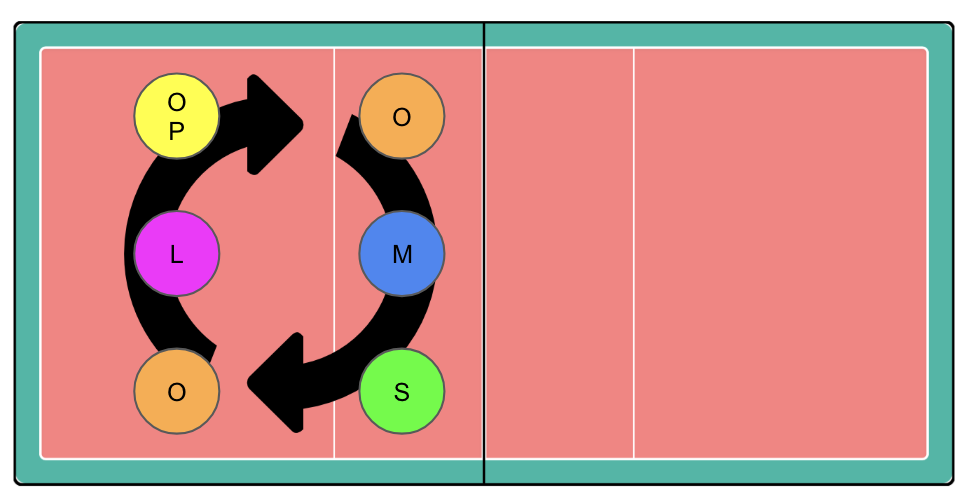
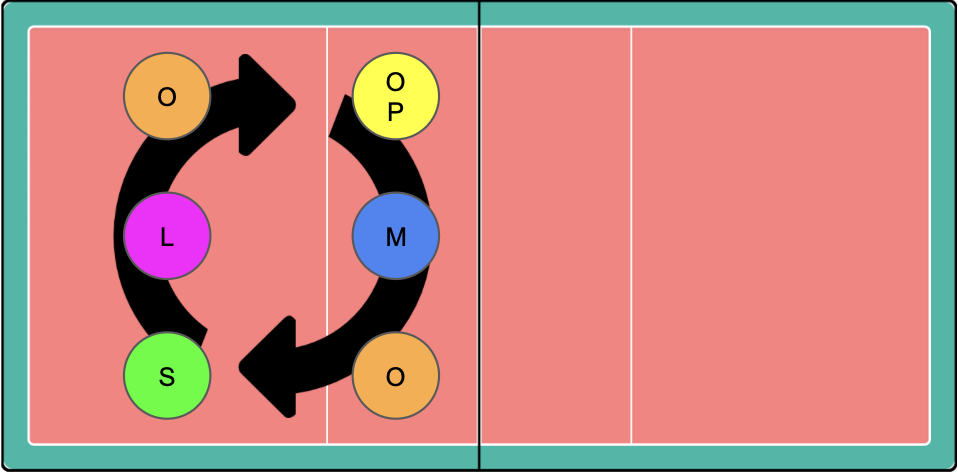
Updated text for correctness, added rotations and positions/roles slides, added interactive popups.

diff --git a/static/js/app.js b/static/js/app.js
@@ -2,6 +2,55 @@
 
 $(document).ready(function () {
 
+  // Popup term highlights and diagram info button
+  const popups = window.LESSON_POPUPS || [];
+  if (popups.length) {
+    const termPopups = popups.filter(p => p.type !== 'diagram');
+    const diagramPopups = popups.filter(p => p.type === 'diagram');
+
+    if (termPopups.length) {
+      $('.lesson-text p, .lesson-text td').each(function () {
+        let html = $(this).html();
+        termPopups.forEach(p => {
+          const escaped = p.term.replace(/[.*+?^${}()|[\]\\]/g, '\\$&');
+          const re = new RegExp('\\b(' + escaped + ')\\b', 'i');
+          html = html.replace(re, match => {
+            const def = p.definition.replace(/"/g, '&quot;');
+            return '<span class="popup-term" tabindex="0" role="button"'
+              + ' data-bs-toggle="popover" data-bs-trigger="click focus"'
+              + ' data-bs-placement="top" data-bs-content="' + def + '"'
+              + '>' + match + '</span>';
+          });
+        });
+        $(this).html(html);
+      });
+      $('.popup-term').each(function () {
+        new bootstrap.Popover(this, { container: 'body' });
+      });
+    }
+
+    if (diagramPopups.length) {
+      const $imgCol = $('.col-md-6.mb-3');
+      if ($imgCol.length) {
+        $imgCol.css('position', 'relative');
+        const content = diagramPopups.map(p => p.definition).join('<hr style="margin:6px 0">');
+        const $btn = $('<button class="popup-info-btn" tabindex="0" aria-label="Diagram info">ⓘ</button>');
+        $imgCol.append($btn);
+        new bootstrap.Popover($btn[0], { container: 'body', trigger: 'click', placement: 'left', html: true, content });
+      }
+    }
+
+    $(document).on('click', function (e) {
+      if (!$(e.target).closest('.popup-term, .popup-info-btn, .popover').length) {
+        $('.popup-term, .popup-info-btn').each(function () {
+          bootstrap.Popover.getInstance(this)?.hide();
+        });
+      }
+    });
+  }
+
+
+
   // Record interactive lesson choices via AJAX
   $('.choice-btn').on('click', function () {
     const $btn = $(this);

diff --git a/templates/learn.html b/templates/learn.html
@@ -16,6 +16,36 @@ endblock %} {% block content %}
 <h5 class="text-muted">{{ lesson.subtitle }}</h5>
 {% endif %}
 
+{% if lesson.table %}
+<div class="mt-4 lesson-text">
+    <p>{{ lesson.body }}</p>
+    {% if lesson.note %}
+    <p class="text-muted"><em>{{ lesson.note }}</em></p>
+    {% endif %}
+    <div class="table-responsive">
+        <table class="table table-sm table-bordered align-middle">
+            <thead class="table-light">
+                <tr>
+                    <th>Position</th>
+                    <th>On the Court</th>
+                    <th>Offense</th>
+                    <th>Defense</th>
+                </tr>
+            </thead>
+            <tbody>
+                {% for row in lesson.table %}
+                <tr>
+                    <td><strong>{{ row.name }} ({{ row.abbreviation }})</strong></td>
+                    <td>{{ row.position }}</td>
+                    <td>{{ row.offense }}</td>
+                    <td>{{ row.defense }}</td>
+                </tr>
+                {% endfor %}
+            </tbody>
+        </table>
+    </div>
+</div>
+{% else %}
 <div class="row mt-4">
     <div class="col-md-6 mb-3">
         {% if lesson.image %}
@@ -45,7 +75,7 @@ endblock %} {% block content %}
         {% endif %}
     </div>
 
-    <div class="col-md-6">
+    <div class="col-md-6 lesson-text">
         <p>{{ lesson.body }}</p>
         {% if lesson.note %}
         <p class="text-muted"><em>{{ lesson.note }}</em></p>
@@ -78,6 +108,7 @@ endblock %} {% block content %}
         {% endif %}
     </div>
 </div>
+{% endif %}
 
 <div class="d-flex justify-content-between mt-5">
     {% if n > 1 %}
@@ -107,8 +138,12 @@ endblock %} {% block content %}
     {% endif %}
 </div>
 
+{% endblock %}
+
+{% block scripts %}
 <script>
     window.LESSON_ID = {{ n }};
     window.LESSON_TYPE = "{{ lesson.interactive.type if lesson.interactive else '' }}";
+    window.LESSON_POPUPS = {{ lesson.popups | tojson if lesson.popups is defined and lesson.popups else '[]' }};
 </script>
 {% endblock %}

diff --git a/static/css/style.css b/static/css/style.css
@@ -23,3 +23,41 @@ body {
 .card.border-danger {
   border-width: 2px;
 }
+
+.popup-term {
+  border-bottom: 2px dotted #d4a800;
+  background: rgba(255, 213, 0, 0.18);
+  border-radius: 2px;
+  padding: 0 2px;
+  cursor: pointer;
+  transition: background 0.15s;
+}
+.popup-term:hover, .popup-term:focus {
+  background: rgba(255, 213, 0, 0.38);
+  outline: none;
+}
+.popup-info-btn {
+  position: absolute;
+  bottom: 8px;
+  right: 8px;
+  width: 30px;
+  height: 30px;
+  border-radius: 50%;
+  border: none;
+  background: rgba(255, 213, 0, 0.9);
+  color: #333;
+  font-size: 16px;
+  line-height: 1;
+  cursor: pointer;
+  z-index: 10;
+  display: flex;
+  align-items: center;
+  justify-content: center;
+  padding: 0;
+  box-shadow: 0 1px 4px rgba(0,0,0,0.25);
+  transition: background 0.15s;
+}
+.popup-info-btn:hover, .popup-info-btn:focus {
+  background: rgba(255, 213, 0, 1);
+  outline: none;
+}

diff --git a/app.py b/app.py
@@ -3,24 +3,27 @@
 Flask backend for HW10 Technical Prototype
 """
 
-from flask import Flask, render_template, request, redirect, url_for, jsonify
 import json
 import os
 from datetime import datetime
 
+from flask import Flask, jsonify, redirect, render_template, request, url_for
+
 app = Flask(__name__)
+
 
 #  Load lesson and quiz content from JSON
 def load_json(filename):
-    path = os.path.join(os.path.dirname(__file__), 'data', filename)
-    with open(path, 'r') as f:
+    path = os.path.join(os.path.dirname(__file__), "data", filename)
+    with open(path, "r") as f:
         return json.load(f)
 
-LESSONS = load_json('lessons.json')
-QUIZ = load_json('quiz.json')
+
+LESSONS = load_json("lessons.json")
+QUIZ = load_json("quiz.json")
 
 
-#  Single user memory state for req8 
+#  Single user memory state for req8
 def fresh_state():
     return {
         "started_at": None,
@@ -30,90 +33,102 @@ def fresh_state():
         "finished_at": None,
     }
 
+
 user_state = fresh_state()
 
 
 # Routes
 
-@app.route('/')
+
+@app.route("/")
 def home():
-    return render_template('home.html')
+    return render_template("home.html")
 
 
-@app.route('/start', methods=['POST'])
+@app.route("/start", methods=["POST"])
 def start():
     global user_state
     user_state = fresh_state()
-    user_state['started_at'] = datetime.now().isoformat()
-    return redirect(url_for('learn', n=1))
+    user_state["started_at"] = datetime.now().isoformat()
+    return redirect(url_for("learn", n=1))
 
 
-@app.route('/learn/<int:n>')
+@app.route("/learn/<int:n>")
 def learn(n):
     if n < 1 or n > len(LESSONS):
-        return redirect(url_for('home'))
+        return redirect(url_for("home"))
     lesson = LESSONS[n - 1]
-    user_state['lesson_visits'][str(n)] = datetime.now().isoformat()
-    return render_template('learn.html', lesson=lesson, n=n, total=len(LESSONS))
+    user_state["lesson_visits"][str(n)] = datetime.now().isoformat()
+    return render_template("learn.html", lesson=lesson, n=n, total=len(LESSONS))
 
 
-@app.route('/api/lesson-choice', methods=['POST'])
+@app.route("/api/lesson-choice", methods=["POST"])
 def lesson_choice():
     data = request.get_json() or {}
-    lesson_id = str(data.get('lesson_id'))
-    choice = data.get('choice')
+    lesson_id = str(data.get("lesson_id"))
+    choice = data.get("choice")
     if lesson_id and choice is not None:
-        user_state['lesson_choices'].setdefault(lesson_id, []).append({
-            'choice': choice,
-            'at': datetime.now().isoformat(),
-        })
-    return jsonify({'ok': True})
+        user_state["lesson_choices"].setdefault(lesson_id, []).append(
+            {
+                "choice": choice,
+                "at": datetime.now().isoformat(),
+            }
+        )
+    return jsonify({"ok": True})
 
-@app.route("/defend/<int:n>")
-def defend(n):
-    return f"Defense option {n}"
 
-@app.route('/quiz/<int:n>', methods=['GET', 'POST'])
+# @app.route("/defend/<int:n>")
+# def defend(n):
+#     return f"Defense option {n}"
+
+
+@app.route("/quiz/<int:n>", methods=["GET", "POST"])
 def quiz(n):
-    if request.method == 'POST':
-        answer = request.form.get('answer')
-        user_state['quiz_answers'][str(n)] = answer
+    if request.method == "POST":
+        answer = request.form.get("answer")
+        user_state["quiz_answers"][str(n)] = answer
         if n < len(QUIZ):
-            return redirect(url_for('quiz', n=n + 1))
-        return redirect(url_for('results'))
+            return redirect(url_for("quiz", n=n + 1))
+        return redirect(url_for("results"))
 
     if n < 1 or n > len(QUIZ):
-        return redirect(url_for('results'))
+        return redirect(url_for("results"))
     question = QUIZ[n - 1]
-    return render_template('quiz.html', question=question, n=n, total=len(QUIZ))
+    return render_template("quiz.html", question=question, n=n, total=len(QUIZ))
 
 
-@app.route('/results')
+@app.route("/results")
 def results():
     correct_count = 0
     breakdown = []
     for q in QUIZ:
-        qid = str(q['id'])
-        user_ans = user_state['quiz_answers'].get(qid)
-        is_correct = user_ans == q['correct']
+        qid = str(q["id"])
+        user_ans = user_state["quiz_answers"].get(qid)
+        is_correct = user_ans == q["correct"]
         if is_correct:
             correct_count += 1
-        breakdown.append({
-            'id': q['id'],
-            'question': q['question'],
-            'user_answer': user_ans,
-            'correct_answer': q['correct'],
-            'is_correct': is_correct,
-            'feedback': q.get('feedback_correct') if is_correct else q.get('feedback_incorrect'),
-        })
-    user_state['finished_at'] = datetime.now().isoformat()
-    return render_template('results.html', correct=correct_count, total=len(QUIZ), breakdown=breakdown)
+        breakdown.append(
+            {
+                "id": q["id"],
+                "question": q["question"],
+                "user_answer": user_ans,
+                "correct_answer": q["correct"],
+                "is_correct": is_correct,
+                "feedback": q.get("feedback_correct")
+                if is_correct
+                else q.get("feedback_incorrect"),
+            }
+        )
+    user_state["finished_at"] = datetime.now().isoformat()
+    return render_template(
+        "results.html", correct=correct_count, total=len(QUIZ), breakdown=breakdown
+    )
 
 
-@app.route('/api/debug-state')
+@app.route("/api/debug-state")
 def debug_state():
     return jsonify(user_state)
 
 
-if __name__ == '__main__':
+if __name__ == "__main__":
     app.run(debug=True, port=5000)
